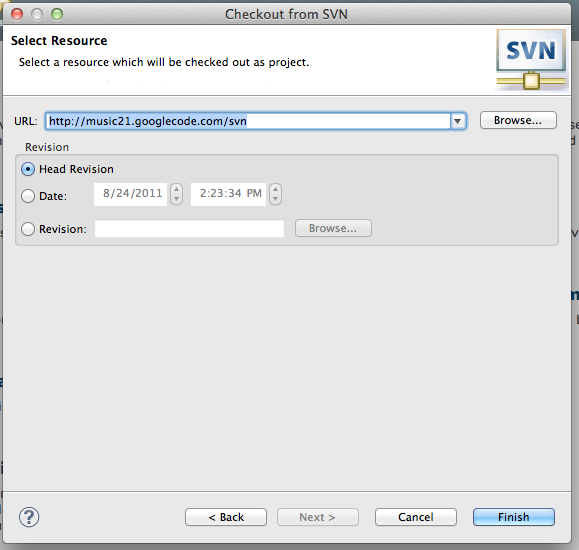
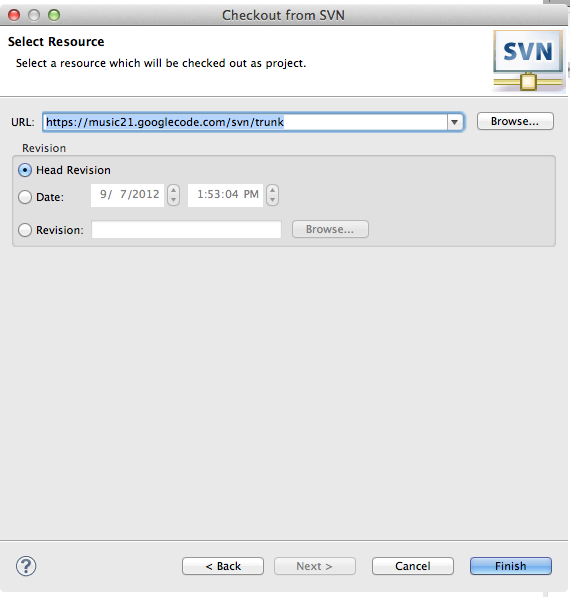
improved documentation for Eclipse via SVN

Changed region(s): [[0.0, 0.0, 1.0, 1.0]]

diff --git a/buildDoc/staticDocs/usingEclipse.rst b/buildDoc/staticDocs/usingEclipse.rst
@@ -1,3 +1,5 @@
+.. WARNING: DO NOT EDIT THIS FILE: AUTOMATICALLY GENERATED. Edit ../staticDocs/usingEclipse.rst
+
 .. _usingEclipse:
 
 Using music21 with SVN for Eclipse
@@ -15,6 +17,10 @@ Installing Eclipse
 
 First, download and install the appropriate version of Eclipse from the following url if you 
 don't already have it: http://www.eclipse.org/downloads/packages/eclipse-classic-37/indigor
+
+You may use Juno (Eclipse 4.2) if you'd like -- it is just a little slower, but is the future of Eclipse.
+The docs below are for Eclipse 3.7, but the procedure is mostly the same for using 4.2.  If you're
+upgrading, you can delete your music21base project in your old version of Eclipse and then just follow the same steps below.
 
 For Windows users, we recommend installing the 32-bit version, regardless of your system's 
 capabilities. For Mac users, choose the version that complies with your system. If in 
@@ -59,7 +65,7 @@ for it to install. A security warning window will open, and you will be prompted
 certificate for Aptana.
 
 .. image:: images/usingEclipse/aptana_certificate.*
-    :width: 650
+    :width: 325
 
 
 Check the box, click OK, and the install will continue.
@@ -75,7 +81,8 @@ Installing Subversive
 
 In order for Eclipse to connect to the SVN, you will also have to install Subversive.
 
-To install Subversive, click on "Help," then "Install new software..." In the pull-down menu, select "Indigo."  
+To install Subversive, click on "Help," then "Install new software..." In the pull-down menu, select "Indigo."
+(Or "Juno" if you are using 4.2)
 
 .. image:: images/usingEclipse/install_subversive1.*
     :width: 650
@@ -97,7 +104,7 @@ Accept the terms and allow the install to finish. Afterwards, you will be prompt
 Eclipse, which you should do.
 
 Upon restarting, an "Install Connectors" window will open, in which you should select the "SVN Kit 
-1.3.5" option and click "Finish."
+1.3.5" option and click "Finish." (Juno users can use 1.3.7; 1.7 is untested)
 
 .. image:: images/usingEclipse/SVNconnectors.*
     :width: 650
@@ -125,7 +132,7 @@ two SVN folders, expand the one that contains "Project from SVN" and select it. 
 If you have commit access, refer to `Checking Out music21 with Commit Access`_ for more details.
 For standard checkout procedure, continue below.
  
-In the "Checkout from SVN" window, enter http://music21.googlecode.com/svn into the "URL:" field. 
+In the "Checkout from SVN" window, enter http://music21.googlecode.com/svn/trunk into the "URL:" field. 
 Select the "Use the repository URL as the label" option, and click on "Next." 
  
 .. image:: images/usingEclipse/checkoutfromSVN.*
@@ -147,17 +154,25 @@ Continue the process with `Creating a new PyDev Project`_.
 Checking Out music21 with Commit Access
 ----------------------------------------------
 
-In the "Checkout from SVN" window, enter https://music21.googlecode.com/svn into the "URL:" field. 
+If you've been given permission to contribute directly to the music21 project via SVN, follow these
+steps. (Otherwise, feel free to post patches, etc. to Cuthbert's email or to the list).
+
+In the "Checkout from SVN" window, enter https://music21.googlecode.com/svn/trunk into the "URL:" field. 
+
+.. warning::
+     N.B. -- this is https:// not http://
+
 Select the "Use the repository URL as the label" option. Under "Authentication," enter the email 
 address of the Google account that you will be using to which commit access has been granted by the 
 developers, and the password that you have been provided. Be sure to check the "Save authentication"
 box if you'd like to avoid being prompted for the same info in the future. Also, make sure the box next to
-"Validate Repository Location on Finish" is selected, and click on "Next."
+"Validate Repository Location on Finish" is selected, and click on "Next." (The image below has an error, it
+should say "/svn/trunk" not "/svn"
 
 .. image:: images/usingEclipse/checkingoutwithcommit.*
     :width: 650
 
-Keep the defaults as shown and click "Finish" in the window that follows.
+Keep the defaults as shown (your window will say "https://" not "http://") and click "Finish" in the window that follows.
  
 .. image:: images/usingEclipse/selectresource_checkoutfromSVN.*
     :width: 650
@@ -185,7 +200,9 @@ A new window with the heading "PyDev Project" will open. In the "Project Name" f
 enter something recognizable to you that is *NOT* "music21." (There will be a subdirectory 
 under the trunk file called "music21," and if name your trunk directory "music21," both you 
 and the SVN will be very confused). "music21base," for instance, is a perfectly safe name. 
-Click on the "Please configure an interpreter in the related preferences before proceeding" link.
+
+For many users, you will need to click on the "Please configure an interpreter in the related preferences before proceeding" link.
+(If it is not there, then you can skip ahead to the "When returning to the new PyDev Project box..." paragraph)
 
 .. image:: images/usingEclipse/creatingnewpydevproj2.*
     :width: 650
@@ -220,6 +237,9 @@ After doing so, be sure to hit "Apply" in the "Preferences" dialog box before hi
 When returning to the new PyDev Project box, a new drop-down menu should appear under the 
 title "Interpreter," in which you should select "python". In the three bubbles below that 
 field, select "Add project directly to the PYTHONPATH?" and then click on "Finish." 
+
+(In Eclipse 4.2/Juno, the order of the first two options is reversed, so make sure you are
+clicking the right one).
 
 .. image:: images/usingEclipse/creatingnewpydevproject_cropped.*
     :width: 650
@@ -272,7 +292,7 @@ button and click "OK."
 
 
 .. image:: images/usingEclipse/choosingpythonconsole.*
-    :width: 650
+    :width: 325
     
     
 A new console window will open in the lower portion of the Eclipse interface and will load Python. 

diff --git a/buildDoc/rst/usingEclipse.rst b/buildDoc/rst/usingEclipse.rst
@@ -1,5 +1,7 @@
 .. WARNING: DO NOT EDIT THIS FILE: AUTOMATICALLY GENERATED. Edit ../staticDocs/usingEclipse.rst
 
+.. WARNING: DO NOT EDIT THIS FILE: AUTOMATICALLY GENERATED. Edit ../staticDocs/usingEclipse.rst
+
 .. _usingEclipse:
 
 Using music21 with SVN for Eclipse
@@ -17,6 +19,9 @@ Installing Eclipse
 
 First, download and install the appropriate version of Eclipse from the following url if you 
 don't already have it: http://www.eclipse.org/downloads/packages/eclipse-classic-37/indigor
+
+You may use Juno (Eclipse 4.2) if you'd like -- it is just a little slower, but is the future of Eclipse.
+The docs below are for Eclipse 3.7, but the procedure is mostly the same for using 4.2.
 
 For Windows users, we recommend installing the 32-bit version, regardless of your system's 
 capabilities. For Mac users, choose the version that complies with your system. If in 
@@ -61,7 +66,7 @@ for it to install. A security warning window will open, and you will be prompted
 certificate for Aptana.
 
 .. image:: images/usingEclipse/aptana_certificate.*
-    :width: 650
+    :width: 325
 
 
 Check the box, click OK, and the install will continue.
@@ -77,7 +82,8 @@ Installing Subversive
 
 In order for Eclipse to connect to the SVN, you will also have to install Subversive.
 
-To install Subversive, click on "Help," then "Install new software..." In the pull-down menu, select "Indigo."  
+To install Subversive, click on "Help," then "Install new software..." In the pull-down menu, select "Indigo."
+(Or "Juno" if you are using 4.2)
 
 .. image:: images/usingEclipse/install_subversive1.*
     :width: 650
@@ -99,7 +105,7 @@ Accept the terms and allow the install to finish. Afterwards, you will be prompt
 Eclipse, which you should do.
 
 Upon restarting, an "Install Connectors" window will open, in which you should select the "SVN Kit 
-1.3.5" option and click "Finish."
+1.3.5" option and click "Finish." (Juno users can use 1.3.7; 1.7 is untested)
 
 .. image:: images/usingEclipse/SVNconnectors.*
     :width: 650
@@ -127,7 +133,7 @@ two SVN folders, expand the one that contains "Project from SVN" and select it. 
 If you have commit access, refer to `Checking Out music21 with Commit Access`_ for more details.
 For standard checkout procedure, continue below.
  
-In the "Checkout from SVN" window, enter http://music21.googlecode.com/svn into the "URL:" field. 
+In the "Checkout from SVN" window, enter http://music21.googlecode.com/svn/trunk into the "URL:" field. 
 Select the "Use the repository URL as the label" option, and click on "Next." 
  
 .. image:: images/usingEclipse/checkoutfromSVN.*
@@ -149,7 +155,11 @@ Continue the process with `Creating a new PyDev Project`_.
 Checking Out music21 with Commit Access
 ----------------------------------------------
 
-In the "Checkout from SVN" window, enter https://music21.googlecode.com/svn into the "URL:" field. 
+In the "Checkout from SVN" window, enter https://music21.googlecode.com/svn/trunk into the "URL:" field. 
+
+.. warning::
+     N.B. -- this is https:// not http://
+
 Select the "Use the repository URL as the label" option. Under "Authentication," enter the email 
 address of the Google account that you will be using to which commit access has been granted by the 
 developers, and the password that you have been provided. Be sure to check the "Save authentication"
@@ -159,7 +169,7 @@ box if you'd like to avoid being prompted for the same info in the future. Also,
 .. image:: images/usingEclipse/checkingoutwithcommit.*
     :width: 650
 
-Keep the defaults as shown and click "Finish" in the window that follows.
+Keep the defaults as shown (your window will say "https://" not "http://") and click "Finish" in the window that follows.
  
 .. image:: images/usingEclipse/selectresource_checkoutfromSVN.*
     :width: 650
@@ -187,7 +197,9 @@ A new window with the heading "PyDev Project" will open. In the "Project Name" f
 enter something recognizable to you that is *NOT* "music21." (There will be a subdirectory 
 under the trunk file called "music21," and if name your trunk directory "music21," both you 
 and the SVN will be very confused). "music21base," for instance, is a perfectly safe name. 
-Click on the "Please configure an interpreter in the related preferences before proceeding" link.
+
+For many users, you will need to click on the "Please configure an interpreter in the related preferences before proceeding" link.
+If it is not there, then you can skip ahead to the "When returning to the new PyDev Project box..." paragraph)
 
 .. image:: images/usingEclipse/creatingnewpydevproj2.*
     :width: 650
@@ -222,6 +234,9 @@ After doing so, be sure to hit "Apply" in the "Preferences" dialog box before hi
 When returning to the new PyDev Project box, a new drop-down menu should appear under the 
 title "Interpreter," in which you should select "python". In the three bubbles below that 
 field, select "Add project directly to the PYTHONPATH?" and then click on "Finish." 
+
+(In Eclipse 4.2/Juno, the order of the first two options is reversed, so make sure you are
+clicking the right one).
 
 .. image:: images/usingEclipse/creatingnewpydevproject_cropped.*
     :width: 650
@@ -274,7 +289,7 @@ button and click "OK."
 
 
 .. image:: images/usingEclipse/choosingpythonconsole.*
-    :width: 650
+    :width: 325
     
     
 A new console window will open in the lower portion of the Eclipse interface and will load Python. 

diff --git a/buildDoc/rst/contents.rst b/buildDoc/rst/contents.rst
@@ -122,7 +122,6 @@ Module Reference
    moduleMusicxmlM21ToString
    moduleMusicxmlTranslate
    moduleNote
-   moduleNoteworthyBase
    moduleNoteworthyTranslate
    modulePitch
    moduleRepeat
